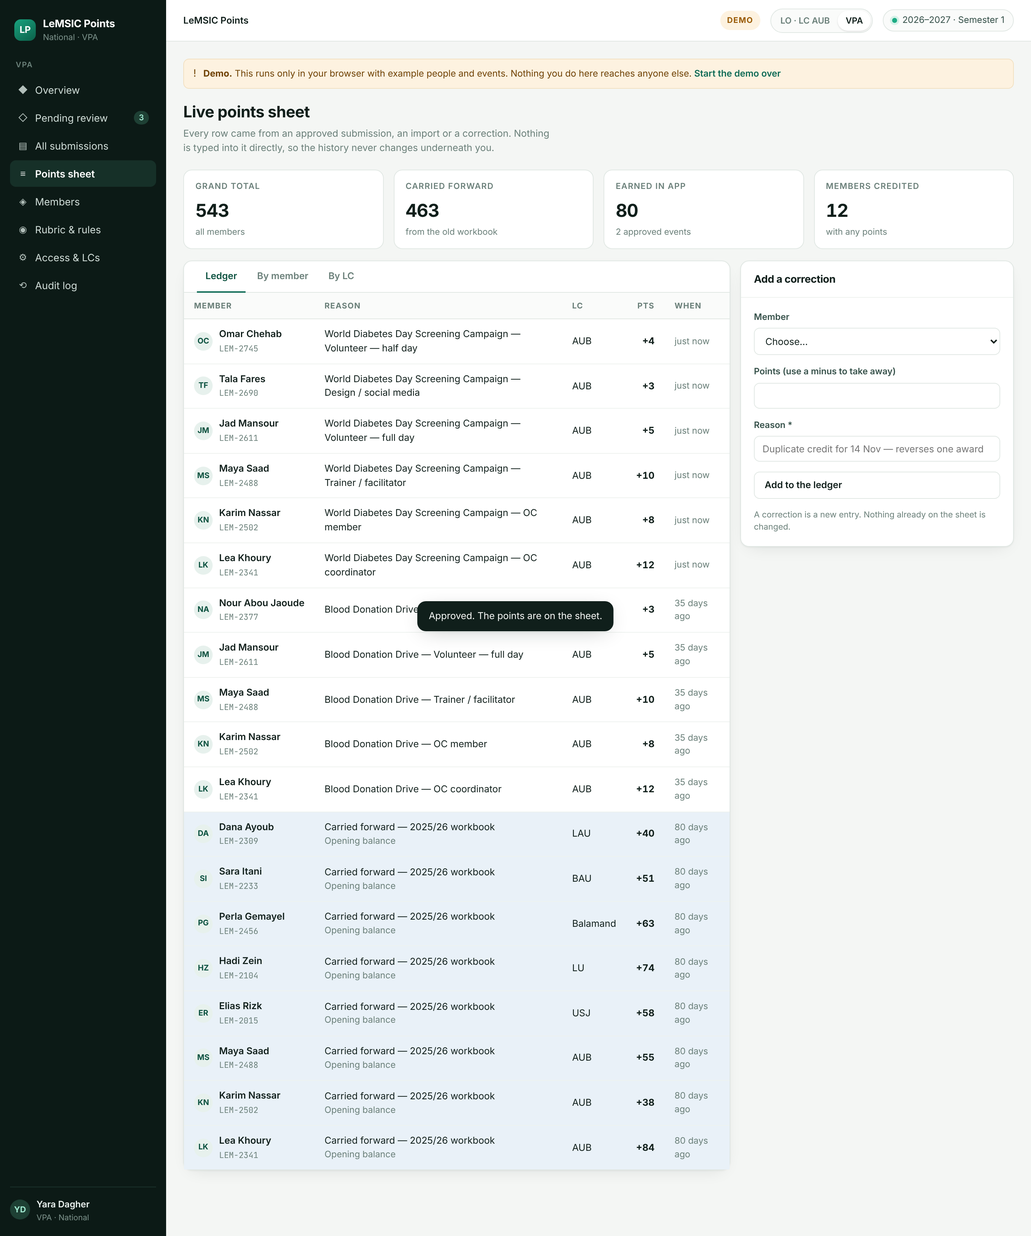
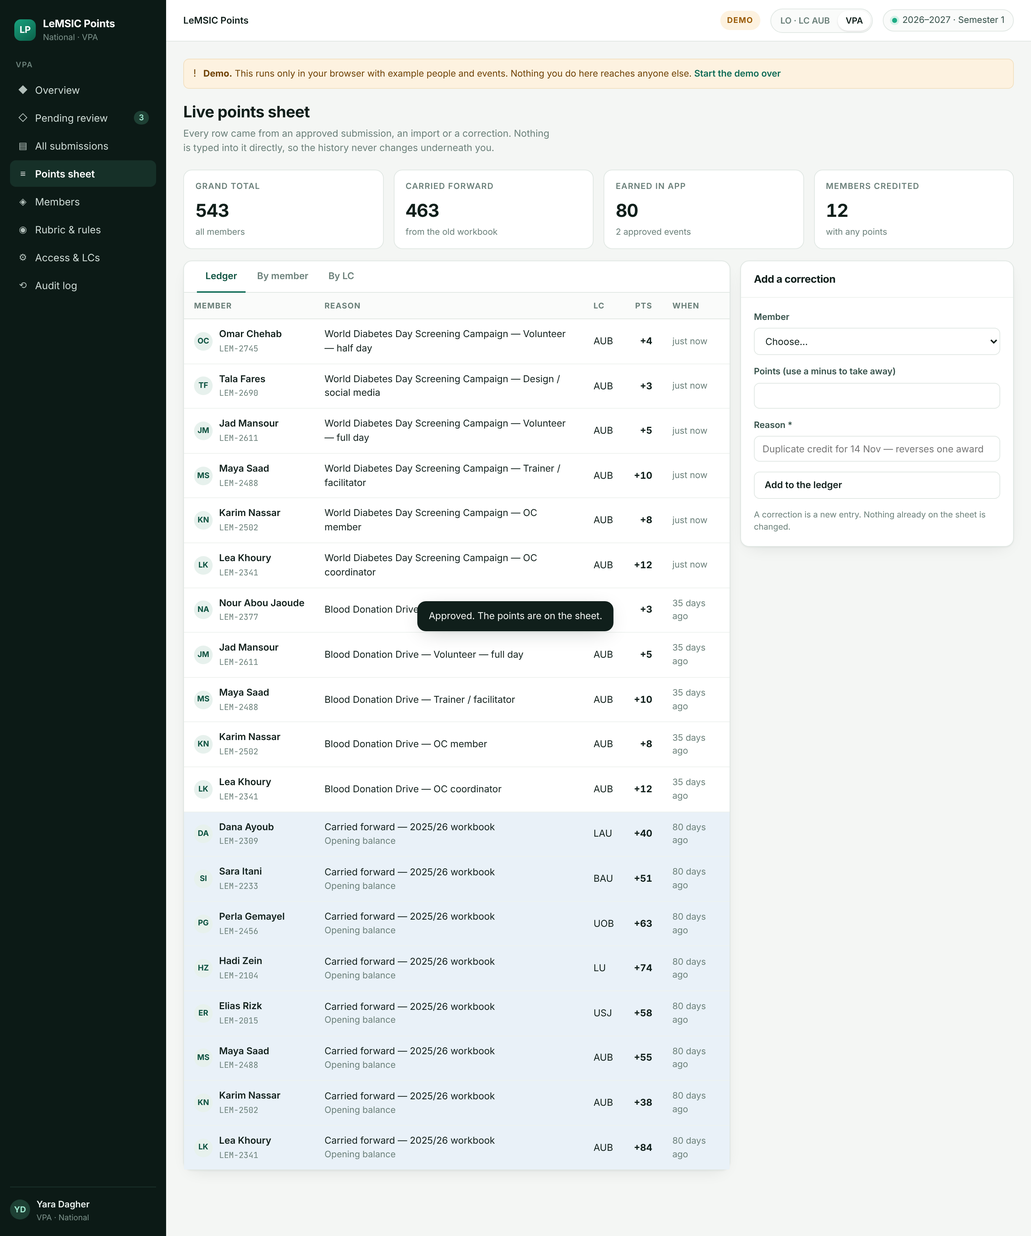
Call the University of Balamand committee UOB
Its short code becomes UOB and its Local Officer login lo.uob; the full name
stays University of Balamand. Applied to the app, the demo data, both seeds,
the Firestore rules and the tests, and to the live test database, where no
member or officer referred to the old code yet.

Claude-Session: https://claude.ai/code/session_012bK2P4cmT6baufXMRm4cyf

diff --git a/mockups/prototype.html b/mockups/prototype.html
@@ -678,7 +678,7 @@ body::before{content:"";position:fixed;inset:0 0 auto;height:env(safe-area-inset
               <tr><td><span class="sw"></span></td><td><b>Hepatitis Awareness Booth</b><div class="sub">09 Nov 2026 · SCOPH</div></td><td>LC LAU</td><td>Dana Ayoub</td><td><span class="pill pend">5 days</span></td><td class="num">11</td><td class="num">64</td><td><span class="pill ret">1 duplicate</span></td><td><a href="#">Review</a></td></tr>
               <tr><td><span class="sw on"></span></td><td><b>World Diabetes Day Screening</b><div class="sub">14 Nov 2026 · SCOPH</div></td><td>LC AUB</td><td>Rami Haddad</td><td><span class="pill flat">2 days</span></td><td class="num">14</td><td><span class="pill pend">1 over band</span></td><td><a href="#"><b>Review</b></a></td></tr>
               <tr><td><span class="sw"></span></td><td><b>Teddy Bear Hospital — School Visit</b><div class="sub">29 Oct 2026 · SCOPH</div></td><td>LC AUB</td><td>Rami Haddad</td><td><span class="pill flat">2 days</span></td><td class="num">9</td><td><span class="pill ok">clean</span></td><td><a href="#">Review</a></td></tr>
-              <tr><td><span class="sw"></span></td><td><b>Research Methodology Webinar</b><div class="sub">11 Nov 2026 · SCORE</div></td><td>LC Balamand</td><td>Perla Gemayel</td><td><span class="pill flat">1 day</span></td><td class="num">8</td><td class="num">41</td><td><span class="pill ok">clean</span></td><td><a href="#">Review</a></td></tr>
+              <tr><td><span class="sw"></span></td><td><b>Research Methodology Webinar</b><div class="sub">11 Nov 2026 · SCORE</div></td><td>LC UOB</td><td>Perla Gemayel</td><td><span class="pill flat">1 day</span></td><td class="num">8</td><td class="num">41</td><td><span class="pill ok">clean</span></td><td><a href="#">Review</a></td></tr>
               <tr><td><span class="sw"></span></td><td><b>Peer Education Training (TOT)</b><div class="sub">12 Nov 2026 · SCORA</div></td><td>LC LU</td><td>Hadi Zein</td><td><span class="pill flat">1 day</span></td><td class="num">19</td><td class="num">131</td><td><span class="pill pend">cap warning</span></td><td><a href="#">Review</a></td></tr>
               <tr><td><span class="sw"></span></td><td><b>Exchange Orientation Day</b><div class="sub">15 Nov 2026 · SCOPE</div></td><td>LC BAU</td><td>Sara Itani</td><td><span class="pill flat">6 hours</span></td><td class="num">12</td><td class="num">88</td><td><span class="pill ok">clean</span></td><td><a href="#">Review</a></td></tr>
             </tbody>
@@ -814,7 +814,7 @@ body::before{content:"";position:fixed;inset:0 0 auto;height:env(safe-area-inset
                 <tr style="background:var(--red-soft)"><td class="mono">#1838</td><td><div class="who"><span class="ava">ER</span><div><b>Elias Rizk</b><small>LEM-2015</small></div></div></td><td>Winter Clothing Drive<div class="sub" style="color:var(--red)">Correction — reverses #1702</div></td><td>USJ</td><td class="num"><b style="color:var(--red)">−6</b></td><td class="sub">Y. Dagher</td><td class="sub">yesterday</td></tr>
                 <tr><td class="mono">#1837</td><td><div class="who"><span class="ava">SI</span><div><b>Sara Itani</b><small>LEM-2233</small></div></div></td><td>Exchange Orientation Day<div class="sub">OC member</div></td><td>BAU</td><td class="num"><b>8</b></td><td class="sub">Y. Dagher</td><td class="sub">2 days ago</td></tr>
                 <tr style="background:var(--blue-soft)"><td class="mono">#0001</td><td><div class="who"><span class="ava">LK</span><div><b>Lea Khoury</b><small>LEM-2341</small></div></div></td><td>Carried forward — 2025/26 workbook<div class="sub">Opening balance · IMP-2026-01</div></td><td>AUB</td><td class="num"><b>84</b></td><td class="sub">Import</td><td class="sub">01 Sep 2026</td></tr>
-                <tr><td class="mono">#1836</td><td><div class="who"><span class="ava">PG</span><div><b>Perla Gemayel</b><small>LEM-2456</small></div></div></td><td>Research Methodology Webinar<div class="sub">OC coordinator</div></td><td>Balamand</td><td class="num"><b>11</b></td><td class="sub">Y. Dagher</td><td class="sub">2 days ago</td></tr>
+                <tr><td class="mono">#1836</td><td><div class="who"><span class="ava">PG</span><div><b>Perla Gemayel</b><small>LEM-2456</small></div></div></td><td>Research Methodology Webinar<div class="sub">OC coordinator</div></td><td>UOB</td><td class="num"><b>11</b></td><td class="sub">Y. Dagher</td><td class="sub">2 days ago</td></tr>
               </tbody>
             </table></div>
           </div>
@@ -822,7 +822,7 @@ body::before{content:"";position:fixed;inset:0 0 auto;height:env(safe-area-inset
             <div class="card"><div class="card-h"><h3>Top volunteers</h3><div class="spacer"></div><small>this term</small></div><div class="card-b">
               <div class="lb"><span class="rank">1</span><div class="nm"><b>Lea Khoury</b><small>LC AUB · 11 events</small><div class="bar" style="margin-top:5px"><i style="width:100%"></i></div></div><span class="pv">96</span></div>
               <div class="lb"><span class="rank">2</span><div class="nm"><b>Hadi Zein</b><small>LC LU · 9 events</small><div class="bar" style="margin-top:5px"><i style="width:88%"></i></div></div><span class="pv">84</span></div>
-              <div class="lb"><span class="rank">3</span><div class="nm"><b>Perla Gemayel</b><small>LC Balamand · 8 events</small><div class="bar" style="margin-top:5px"><i style="width:77%"></i></div></div><span class="pv">74</span></div>
+              <div class="lb"><span class="rank">3</span><div class="nm"><b>Perla Gemayel</b><small>LC UOB · 8 events</small><div class="bar" style="margin-top:5px"><i style="width:77%"></i></div></div><span class="pv">74</span></div>
               <div class="lb"><span class="rank">4</span><div class="nm"><b>Maya Saad</b><small>LC AUB · 7 events</small><div class="bar" style="margin-top:5px"><i style="width:68%"></i></div></div><span class="pv">65</span></div>
               <div class="lb"><span class="rank">5</span><div class="nm"><b>Sara Itani</b><small>LC BAU · 8 events</small><div class="bar" style="margin-top:5px"><i style="width:62%"></i></div></div><span class="pv">59</span></div>
             </div></div>
@@ -877,7 +877,7 @@ body::before{content:"";position:fixed;inset:0 0 auto;height:env(safe-area-inset
             <tbody>
               <tr><td><div class="who"><span class="ava">LK</span><div><b>Lea Khoury</b><small>LEM-2341</small></div></div></td><td>AUB</td><td class="sub">3rd</td><td class="num mono">84</td><td class="num mono" style="color:var(--accent-2)">+12</td><td class="num"><b>96</b></td><td class="sub">World Diabetes Day &middot; today</td></tr>
               <tr><td><div class="who"><span class="ava">HZ</span><div><b>Hadi Zein</b><small>LEM-2104</small></div></div></td><td>LU</td><td class="sub">5th</td><td class="num mono">74</td><td class="num mono" style="color:var(--accent-2)">+10</td><td class="num"><b>84</b></td><td class="sub">Peer Education Training &middot; 1 d</td></tr>
-              <tr><td><div class="who"><span class="ava">PG</span><div><b>Perla Gemayel</b><small>LEM-2456</small></div></div></td><td>Balamand</td><td class="sub">4th</td><td class="num mono">63</td><td class="num mono" style="color:var(--accent-2)">+11</td><td class="num"><b>74</b></td><td class="sub">Research Webinar &middot; 2 d</td></tr>
+              <tr><td><div class="who"><span class="ava">PG</span><div><b>Perla Gemayel</b><small>LEM-2456</small></div></div></td><td>UOB</td><td class="sub">4th</td><td class="num mono">63</td><td class="num mono" style="color:var(--accent-2)">+11</td><td class="num"><b>74</b></td><td class="sub">Research Webinar &middot; 2 d</td></tr>
               <tr><td><div class="who"><span class="ava">MS</span><div><b>Maya Saad</b><small>LEM-2488</small></div></div></td><td>AUB</td><td class="sub">4th</td><td class="num mono">55</td><td class="num mono" style="color:var(--accent-2)">+10</td><td class="num"><b>65</b></td><td class="sub">World Diabetes Day &middot; today</td></tr>
               <tr><td><div class="who"><span class="ava">SI</span><div><b>Sara Itani</b><small>LEM-2233</small></div></div></td><td>BAU</td><td class="sub">2nd</td><td class="num mono">51</td><td class="num mono" style="color:var(--accent-2)">+8</td><td class="num"><b>59</b></td><td class="sub">Exchange Orientation &middot; 2 d</td></tr>
               <tr><td><div class="who"><span class="ava">ER</span><div><b>Elias Rizk</b><small>LEM-2015</small></div></div></td><td>USJ</td><td class="sub">6th</td><td class="num mono">58</td><td class="num mono" style="color:var(--red)">&minus;6</td><td class="num"><b>52</b></td><td class="sub">Correction #1838 &middot; 1 d</td></tr>
@@ -1092,7 +1092,7 @@ body::before{content:"";position:fixed;inset:0 0 auto;height:env(safe-area-inset
                   <tr><td><b>LC USJ</b></td><td class="num">64</td><td class="num mono">620</td><td class="num mono">148</td><td class="num"><b>768</b></td></tr>
                   <tr><td><b>LC LU</b></td><td class="num">58</td><td class="num mono">517</td><td class="num mono">131</td><td class="num"><b>648</b></td></tr>
                   <tr><td><b>LC LAU</b></td><td class="num">47</td><td class="num mono">467</td><td class="num mono">64</td><td class="num"><b>531</b></td></tr>
-                  <tr><td><b>LC Balamand</b></td><td class="num">30</td><td class="num mono">497</td><td class="num mono">41</td><td class="num"><b>538</b></td></tr>
+                  <tr><td><b>LC UOB</b></td><td class="num">30</td><td class="num mono">497</td><td class="num mono">41</td><td class="num"><b>538</b></td></tr>
                   <tr><td><b>LC BAU</b></td><td class="num">42</td><td class="num mono">359</td><td class="num mono">88</td><td class="num"><b>447</b></td></tr>
                   <tr><td><b>LC USEK</b><div class="sub">new LC — no rows in the old sheet</div></td><td class="num">0</td><td class="num mono" style="color:var(--muted)">0</td><td class="num mono">262</td><td class="num"><b>262</b></td></tr>
                 </tbody>
@@ -1421,7 +1421,7 @@ body::before{content:"";position:fixed;inset:0 0 auto;height:env(safe-area-inset
                 <tr><td><div class="who"><span class="ava">DA</span><div><b>Dana Ayoub</b></div></div></td><td class="mono">lo.lau</td><td><span class="pill mod">LO</span><div class="sub" style="white-space:nowrap">LC LAU</div></td><td class="sub">3 days ago</td><td><div style="display:flex;gap:6px;justify-content:flex-end"><button class="btn sm">New password</button><button class="btn sm danger">Switch off</button></div></td></tr>
                 <tr><td><div class="who"><span class="ava">HZ</span><div><b>Hadi Zein</b></div></div></td><td class="mono">lo.lu</td><td><span class="pill mod">LO</span><div class="sub" style="white-space:nowrap">LC LU</div></td><td class="sub">5 days ago</td><td><div style="display:flex;gap:6px;justify-content:flex-end"><button class="btn sm">New password</button><button class="btn sm danger">Switch off</button></div></td></tr>
                 <tr><td><div class="who"><span class="ava">SI</span><div><b>Sara Itani</b></div></div></td><td class="mono">lo.bau</td><td><span class="pill mod">LO</span><div class="sub" style="white-space:nowrap">LC BAU</div></td><td class="sub">never<div><span class="pill pend">one-time password</span></div></td><td><div style="display:flex;gap:6px;justify-content:flex-end"><button class="btn sm">New password</button><button class="btn sm danger">Switch off</button></div></td></tr>
-                <tr><td><div class="who"><span class="ava">PG</span><div><b>Perla Gemayel</b></div></div></td><td class="mono">lo.balamand</td><td><span class="pill mod">LO</span><div class="sub" style="white-space:nowrap">LC Balamand</div></td><td class="sub">never<div><span class="pill pend">one-time password</span></div></td><td><div style="display:flex;gap:6px;justify-content:flex-end"><button class="btn sm">New password</button><button class="btn sm danger">Switch off</button></div></td></tr>
+                <tr><td><div class="who"><span class="ava">PG</span><div><b>Perla Gemayel</b></div></div></td><td class="mono">lo.uob</td><td><span class="pill mod">LO</span><div class="sub" style="white-space:nowrap">LC UOB</div></td><td class="sub">never<div><span class="pill pend">one-time password</span></div></td><td><div style="display:flex;gap:6px;justify-content:flex-end"><button class="btn sm">New password</button><button class="btn sm danger">Switch off</button></div></td></tr>
                 <tr><td><div class="who"><span class="ava">LK</span><div><b>Lea Khoury</b></div></div></td><td class="mono">member.lea</td><td><span class="pill flat">Member</span><div class="sub" style="white-space:nowrap">Lea Khoury</div></td><td class="sub">yesterday</td><td><div style="display:flex;gap:6px;justify-content:flex-end"><button class="btn sm">New password</button><button class="btn sm danger">Switch off</button></div></td></tr>
                 <tr style="opacity:.55"><td><div class="who"><span class="ava">JK</span><div><b>Joe Karam</b><small>switched off</small></div></div></td><td class="mono">lo.usj.2025</td><td><span class="pill mod">LO</span><div class="sub" style="white-space:nowrap">LC USJ</div></td><td class="sub">4 months ago</td><td><div style="display:flex;gap:6px;justify-content:flex-end"><button class="btn sm">New password</button><button class="btn sm">Switch on</button></div></td></tr>
                 </tbody>
@@ -1437,7 +1437,7 @@ body::before{content:"";position:fixed;inset:0 0 auto;height:env(safe-area-inset
                 <tr><td><b>LC LAU</b></td><td class="sub">Lebanese American University</td><td class="num">47</td><td class="num">1</td><td><span class="pill ok">active</span></td><td style="text-align:right"><button class="btn sm">Archive</button></td></tr>
                 <tr><td><b>LC BAU</b></td><td class="sub">Beirut Arab University</td><td class="num">42</td><td class="num">1</td><td><span class="pill ok">active</span></td><td style="text-align:right"><button class="btn sm">Archive</button></td></tr>
                 <tr><td><b>LC LU</b></td><td class="sub">Lebanese University</td><td class="num">58</td><td class="num">1</td><td><span class="pill ok">active</span></td><td style="text-align:right"><button class="btn sm">Archive</button></td></tr>
-                <tr><td><b>LC Balamand</b></td><td class="sub">University of Balamand</td><td class="num">30</td><td class="num">1</td><td><span class="pill ok">active</span></td><td style="text-align:right"><button class="btn sm">Archive</button></td></tr>
+                <tr><td><b>LC UOB</b></td><td class="sub">University of Balamand</td><td class="num">30</td><td class="num">1</td><td><span class="pill ok">active</span></td><td style="text-align:right"><button class="btn sm">Archive</button></td></tr>
                 <tr><td><b>LC USEK</b></td><td class="sub">Holy Spirit University of Kaslik</td><td class="num">0</td><td class="num"><span class="pill pend">none</span></td><td><span class="pill ok">active</span></td><td style="text-align:right"><button class="btn sm">Archive</button></td></tr>
                 </tbody>
               </table></div>
@@ -1448,10 +1448,10 @@ body::before{content:"";position:fixed;inset:0 0 auto;height:env(safe-area-inset
               <div class="card-h"><h3>Issue an account</h3></div>
               <div class="card-b" style="display:flex;flex-direction:column;gap:13px">
                 <div class="field"><label>Their name *</label><div class="inp">Perla Gemayel</div></div>
-                <div class="field"><label>Username *</label><div class="inp mono">lo.balamand</div>
+                <div class="field"><label>Username *</label><div class="inp mono">lo.uob</div>
                   <span class="hint">Lower case, digits, dot, dash or underscore. They can't change it.</span></div>
                 <div class="field"><label>Role *</label><div class="inp sel">Local Officer — submits for one committee</div></div>
-                <div class="field"><label>Committee <span class="hint">(Local Officers)</span></label><div class="inp sel">LC Balamand — University of Balamand</div></div>
+                <div class="field"><label>Committee <span class="hint">(Local Officers)</span></label><div class="inp sel">LC UOB — University of Balamand</div></div>
                 <div class="field"><label>Member <span class="hint">(member accounts)</span></label><div class="inp sel ph">—</div></div>
                 <button class="btn pri" style="justify-content:center">Create &amp; show password</button>
                 <span class="hint">The password appears once on the next screen.</span>
@@ -1509,7 +1509,7 @@ body::before{content:"";position:fixed;inset:0 0 auto;height:env(safe-area-inset
             <div class="card">
               <div class="card-h"><h3>Perla Gemayel</h3><div class="spacer"></div><span class="pill flat">LO</span></div>
               <div class="card-b" style="display:flex;flex-direction:column;gap:14px">
-                <div class="field"><label>Username</label><div class="inp mono" style="font-size:15px">lo.balamand</div></div>
+                <div class="field"><label>Username</label><div class="inp mono" style="font-size:15px">lo.uob</div></div>
                 <div class="field"><label>One-time password</label>
                   <div class="inp mono" style="font-size:17px;letter-spacing:.02em;background:var(--accent-soft);border-color:var(--good-line)">cedar-opal-willow-5172</div></div>
                 <button class="btn">Copy both</button>
@@ -1521,7 +1521,7 @@ body::before{content:"";position:fixed;inset:0 0 auto;height:env(safe-area-inset
           <div style="flex:1;min-width:260px">
             <div class="card"><div class="card-h"><h3>Message you can send</h3></div>
               <div class="card-b">
-                <div class="inp" style="min-height:120px;line-height:1.55;font-size:13px">Hi Perla, here are your LeMSIC Points details. Username: lo.balamand — password: cedar-opal-willow-5172. Sign in and it will ask you to pick your own password straight away. Don't forward this message on.</div>
+                <div class="inp" style="min-height:120px;line-height:1.55;font-size:13px">Hi Perla, here are your LeMSIC Points details. Username: lo.uob — password: cedar-opal-willow-5172. Sign in and it will ask you to pick your own password straight away. Don't forward this message on.</div>
                 <button class="btn sm" style="margin-top:10px">Copy message</button>
               </div></div>
           </div>

diff --git a/artifact/lemsic-points.html b/artifact/lemsic-points.html
@@ -341,7 +341,7 @@ const days = (ms) => (Date.now() - ms) / 86400000;
 class UserError extends Error {}
 
 // ---------- reference data the demo is built from ----------
-const COMMITTEES = [["AUB", "American University of Beirut"], ["USJ", "Université Saint-Joseph"], ["LAU", "Lebanese American University"], ["BAU", "Beirut Arab University"], ["LU", "Lebanese University"], ["Balamand", "University of Balamand"], ["USEK", "Holy Spirit University of Kaslik"]];
+const COMMITTEES = [["AUB", "American University of Beirut"], ["USJ", "Université Saint-Joseph"], ["LAU", "Lebanese American University"], ["BAU", "Beirut Arab University"], ["LU", "Lebanese University"], ["UOB", "University of Balamand"], ["USEK", "Holy Spirit University of Kaslik"]];
 const RUBRIC = [
   ["participant", "Participant / attendee", "Attended, no task assigned", 1, 0, 2, null, null, false],
   ["volunteer_half", "Volunteer — half day", "Up to 4 h on site", 3, 2, 4, "Attendance proof", null, false],
@@ -353,7 +353,7 @@ const RUBRIC = [
   ["trainer", "Trainer / facilitator", "Delivered a session", 10, 8, 12, "Session title", null, true],
   ["oc_coordinator", "OC coordinator", "Leads the organising committee", 12, 10, 15, null, 1, false],
 ];
-const DEMO_MEMBERS = [["m01", "Lea Khoury", "LEM-2341", "AUB", "Med 3"], ["m02", "Karim Nassar", "LEM-2502", "AUB", "Med 2"], ["m03", "Maya Saad", "LEM-2488", "AUB", "Med 4"], ["m04", "Jad Mansour", "LEM-2611", "AUB", "Med 2"], ["m05", "Nour Abou Jaoude", "LEM-2377", "AUB", "Med 3"], ["m06", "Tala Fares", "LEM-2690", "AUB", "Med 1"], ["m07", "Omar Chehab", "LEM-2745", "AUB", "Med 1"], ["m08", "Hani Khalil", "LEM-2801", "AUB", "Med 1"], ["m09", "Elias Rizk", "LEM-2015", "USJ", "Med 6"], ["m10", "Yara Doumit", "LEM-2061", "USJ", "Med 3"], ["m11", "Perla Gemayel", "LEM-2456", "Balamand", "Med 4"], ["m12", "Hadi Zein", "LEM-2104", "LU", "Med 5"], ["m13", "Sara Itani", "LEM-2233", "BAU", "Med 2"], ["m14", "Dana Ayoub", "LEM-2309", "LAU", "Med 3"], ["m15", "Joelle Haddad", "LEM-2412", "USJ", "Med 2"]];
+const DEMO_MEMBERS = [["m01", "Lea Khoury", "LEM-2341", "AUB", "Med 3"], ["m02", "Karim Nassar", "LEM-2502", "AUB", "Med 2"], ["m03", "Maya Saad", "LEM-2488", "AUB", "Med 4"], ["m04", "Jad Mansour", "LEM-2611", "AUB", "Med 2"], ["m05", "Nour Abou Jaoude", "LEM-2377", "AUB", "Med 3"], ["m06", "Tala Fares", "LEM-2690", "AUB", "Med 1"], ["m07", "Omar Chehab", "LEM-2745", "AUB", "Med 1"], ["m08", "Hani Khalil", "LEM-2801", "AUB", "Med 1"], ["m09", "Elias Rizk", "LEM-2015", "USJ", "Med 6"], ["m10", "Yara Doumit", "LEM-2061", "USJ", "Med 3"], ["m11", "Perla Gemayel", "LEM-2456", "UOB", "Med 4"], ["m12", "Hadi Zein", "LEM-2104", "LU", "Med 5"], ["m13", "Sara Itani", "LEM-2233", "BAU", "Med 2"], ["m14", "Dana Ayoub", "LEM-2309", "LAU", "Med 3"], ["m15", "Joelle Haddad", "LEM-2412", "USJ", "Med 2"]];
 const DEMO_PEOPLE = { "demo-lo-aub": "Rami Haddad", "demo-lo-usj": "Elias Rizk", "demo-vpa": "Yara Dagher" };
 const STANDING = ["SCOPH", "SCORA", "SCORP", "SCOME", "SCOPE", "SCORE", "Internal", "PR & Media"];
 const ACTIVITY = ["Campaign / Screening", "Workshop / Training", "School visit", "Conference / GA", "Fundraiser", "Social", "Webinar", "Other"];

diff --git a/artifact/app.template.html b/artifact/app.template.html
@@ -85,7 +85,7 @@ const days = (ms) => (Date.now() - ms) / 86400000;
 class UserError extends Error {}
 
 // ---------- reference data the demo is built from ----------
-const COMMITTEES = [["AUB", "American University of Beirut"], ["USJ", "Université Saint-Joseph"], ["LAU", "Lebanese American University"], ["BAU", "Beirut Arab University"], ["LU", "Lebanese University"], ["Balamand", "University of Balamand"], ["USEK", "Holy Spirit University of Kaslik"]];
+const COMMITTEES = [["AUB", "American University of Beirut"], ["USJ", "Université Saint-Joseph"], ["LAU", "Lebanese American University"], ["BAU", "Beirut Arab University"], ["LU", "Lebanese University"], ["UOB", "University of Balamand"], ["USEK", "Holy Spirit University of Kaslik"]];
 const RUBRIC = [
   ["participant", "Participant / attendee", "Attended, no task assigned", 1, 0, 2, null, null, false],
   ["volunteer_half", "Volunteer — half day", "Up to 4 h on site", 3, 2, 4, "Attendance proof", null, false],
@@ -97,7 +97,7 @@ const RUBRIC = [
   ["trainer", "Trainer / facilitator", "Delivered a session", 10, 8, 12, "Session title", null, true],
   ["oc_coordinator", "OC coordinator", "Leads the organising committee", 12, 10, 15, null, 1, false],
 ];
-const DEMO_MEMBERS = [["m01", "Lea Khoury", "LEM-2341", "AUB", "Med 3"], ["m02", "Karim Nassar", "LEM-2502", "AUB", "Med 2"], ["m03", "Maya Saad", "LEM-2488", "AUB", "Med 4"], ["m04", "Jad Mansour", "LEM-2611", "AUB", "Med 2"], ["m05", "Nour Abou Jaoude", "LEM-2377", "AUB", "Med 3"], ["m06", "Tala Fares", "LEM-2690", "AUB", "Med 1"], ["m07", "Omar Chehab", "LEM-2745", "AUB", "Med 1"], ["m08", "Hani Khalil", "LEM-2801", "AUB", "Med 1"], ["m09", "Elias Rizk", "LEM-2015", "USJ", "Med 6"], ["m10", "Yara Doumit", "LEM-2061", "USJ", "Med 3"], ["m11", "Perla Gemayel", "LEM-2456", "Balamand", "Med 4"], ["m12", "Hadi Zein", "LEM-2104", "LU", "Med 5"], ["m13", "Sara Itani", "LEM-2233", "BAU", "Med 2"], ["m14", "Dana Ayoub", "LEM-2309", "LAU", "Med 3"], ["m15", "Joelle Haddad", "LEM-2412", "USJ", "Med 2"]];
+const DEMO_MEMBERS = [["m01", "Lea Khoury", "LEM-2341", "AUB", "Med 3"], ["m02", "Karim Nassar", "LEM-2502", "AUB", "Med 2"], ["m03", "Maya Saad", "LEM-2488", "AUB", "Med 4"], ["m04", "Jad Mansour", "LEM-2611", "AUB", "Med 2"], ["m05", "Nour Abou Jaoude", "LEM-2377", "AUB", "Med 3"], ["m06", "Tala Fares", "LEM-2690", "AUB", "Med 1"], ["m07", "Omar Chehab", "LEM-2745", "AUB", "Med 1"], ["m08", "Hani Khalil", "LEM-2801", "AUB", "Med 1"], ["m09", "Elias Rizk", "LEM-2015", "USJ", "Med 6"], ["m10", "Yara Doumit", "LEM-2061", "USJ", "Med 3"], ["m11", "Perla Gemayel", "LEM-2456", "UOB", "Med 4"], ["m12", "Hadi Zein", "LEM-2104", "LU", "Med 5"], ["m13", "Sara Itani", "LEM-2233", "BAU", "Med 2"], ["m14", "Dana Ayoub", "LEM-2309", "LAU", "Med 3"], ["m15", "Joelle Haddad", "LEM-2412", "USJ", "Med 2"]];
 const DEMO_PEOPLE = { "demo-lo-aub": "Rami Haddad", "demo-lo-usj": "Elias Rizk", "demo-vpa": "Yara Dagher" };
 const STANDING = ["SCOPH", "SCORA", "SCORP", "SCOME", "SCOPE", "SCORE", "Internal", "PR & Media"];
 const ACTIVITY = ["Campaign / Screening", "Workshop / Training", "School visit", "Conference / GA", "Fundraiser", "Social", "Webinar", "Other"];

diff --git a/scripts/seed.ts b/scripts/seed.ts
@@ -13,7 +13,7 @@ const COMMITTEES = [
   ["LAU", "Lebanese American University"],
   ["BAU", "Beirut Arab University"],
   ["LU", "Lebanese University"],
-  ["Balamand", "University of Balamand"],
+  ["UOB", "University of Balamand"],
   ["USEK", "Holy Spirit University of Kaslik"],
 ] as const;
 
@@ -41,7 +41,7 @@ const MEMBERS: Array<[string, string, string, string]> = [
   ["Rami Haddad", "LEM-2190", "AUB", "Med 4"],
   ["Elias Rizk", "LEM-2015", "USJ", "Med 6"],
   ["Yara Doumit", "LEM-2061", "USJ", "Med 3"],
-  ["Perla Gemayel", "LEM-2456", "Balamand", "Med 4"],
+  ["Perla Gemayel", "LEM-2456", "UOB", "Med 4"],
   ["Hadi Zein", "LEM-2104", "LU", "Med 5"],
   ["Sara Itani", "LEM-2233", "BAU", "Med 2"],
   ["Dana Ayoub", "LEM-2309", "LAU", "Med 3"],
